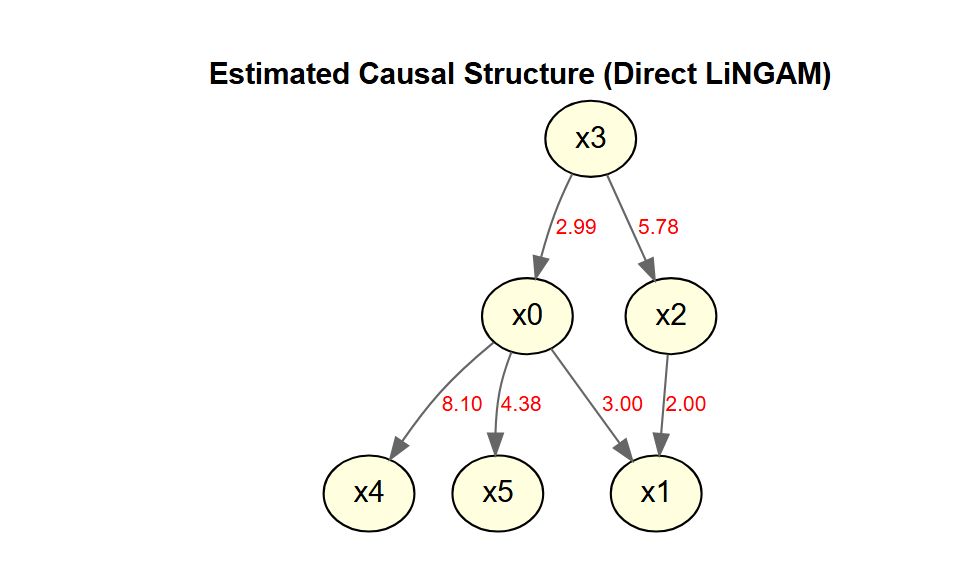
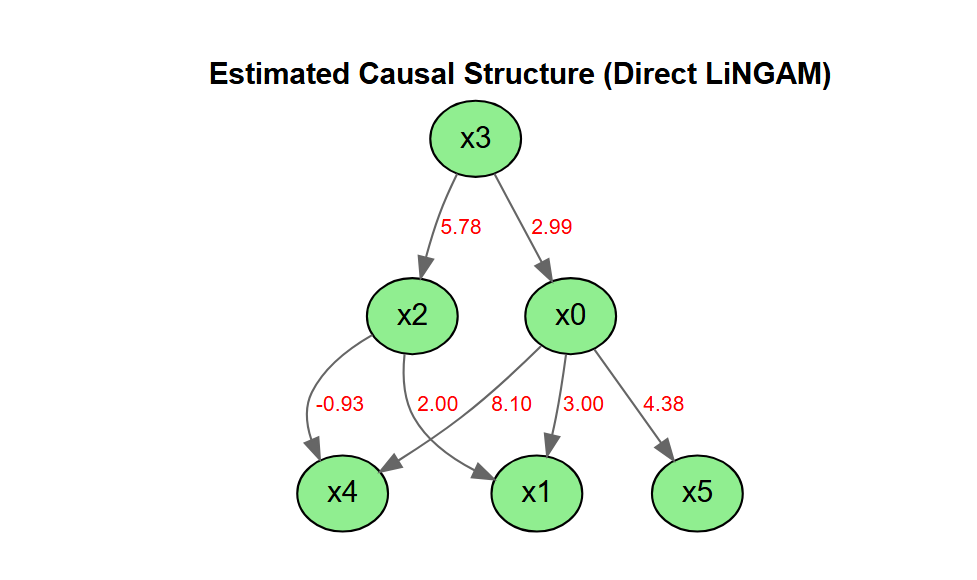
説明を英語に

diff --git a/README.md b/README.md
@@ -51,38 +51,64 @@ pak::pak("morimotoosamu/DirectLiNGAM")
 
 - DiagrammeR
 
-## Example
+## Usage
 
 <https://lingam.readthedocs.io/en/latest/tutorial/lingam.html>
 を再現する
 
-サンプルデータの呼び出しとDirect LiNGAMの実行。
+### Sample Data
 
 ``` r
 library(DirectLiNGAM)
 data(LiNGAM_sample_1000)
 
+m <- matrix(
+  c(0.0, 0.0, 0.0, 3.0, 0.0, 0.0,
+    3.0, 0.0, 2.0, 0.0, 0.0, 0.0,
+    0.0, 0.0, 0.0, 6.0, 0.0, 0.0,
+    0.0, 0.0, 0.0, 0.0, 0.0, 0.0,
+    8.0, 0.0,-1.0, 0.0, 0.0, 0.0,
+    4.0, 0.0, 0.0, 0.0, 0.0, 0.0),
+  nrow = 6, byrow = TRUE
+  )
+
+colnames(m) <- rownames(m) <- colnames(LiNGAM_sample_1000)
+
+m |>
+  plot_adjacency_diagrammer(
+  labels      = colnames(LiNGAM_sample_1000),
+  graph_label = "True causal structure",
+  rankdir     = "TB",
+  shape       = "circle"
+)
+```
+
+<img src="man/figures/README-example-1.png" alt="" width="100%" />
+
+### Causal Discovery
+
+``` r
 model <- direct_lingam(LiNGAM_sample_1000)
 ```
 
-推定された因果順序。
+### Causal Order
 
 ``` r
-cat("Index: ", model$causal_order, "\n")
-#> Index:  4 1 3 2 5 6
-cat("Names: ", colnames(LiNGAM_sample_1000)[model$causal_order], "\n")
-#> Names:  x3 x0 x2 x1 x4 x5
+# index number
+model$causal_order
+#> [1] 4 1 3 2 5 6
+
+# variable name
+colnames(LiNGAM_sample_1000)[model$causal_order]
+#> [1] "x3" "x0" "x2" "x1" "x4" "x5"
 ```
 
-推定された隣接行列
+### Estimated Adjacency Matrix
 
 ``` r
 B_hat <- model$adjacency_matrix
 colnames(B_hat) <- rownames(B_hat) <- colnames(LiNGAM_sample_1000)
-cat("\n--- Estimated Adjacency Matrix ---\n")
-#> 
-#> --- Estimated Adjacency Matrix ---
-print(round(B_hat, 3))
+round(B_hat, 3)
 #>       x0     x1     x2     x3     x4 x5
 #> x0 0.000  0.000  0.000  2.994  0.000  0
 #> x1 2.996  0.000  1.996 -0.022  0.000  0
@@ -92,23 +118,25 @@ print(round(B_hat, 3))
 #> x5 4.377 -0.057  0.084 -0.120 -0.022  0
 ```
 
-推定された因果グラフの描画
+### Plot The Estimated Causal Graph
+
+Only paths with a coefficient of 0.5 or greater are being drawn.
 
 ``` r
-plot_adjacency_diagrammer(
-  B_hat,
-  threshold = 1,
-  labels = colnames(LiNGAM_sample_1000),
-  graph_label = "Estimated Causal Structure (Direct LiNGAM)",
-  rankdir = "TB",
-  shape = "ellipse",
-  fillcolor = "lightyellow"
-)
+B_hat |>
+  plot_adjacency_diagrammer(
+      threshold = 0.5,
+      labels = colnames(LiNGAM_sample_1000),
+      graph_label = "Estimated Causal Structure (Direct LiNGAM)",
+      rankdir = "TB",
+      shape = "ellipse",
+      fillcolor = "lightgreen"
+      )
 ```
 
 <img src="man/figures/README-plot_adjacency-1.png" alt="" width="100%" />
 
-総合因果効果の推定
+### Calculating The Total Causal Effect
 
 ``` r
 LiNGAM_sample_1000 |>
@@ -123,20 +151,18 @@ LiNGAM_sample_1000 |>
 #> x5 4.028 -0.056 -0.007 11.898 -0.022  0
 ```
 
-事前知識を用いた推定
+### Inference Based On Prior Knowledge
 
-x0からx5の6変数のデータセット、x3が外生変数、x1、x4、x5がシンク変数であることが事前知識。
+#### Specify In The Index
+
+- x3 is an exogenous variable.
+- x1, x4, and x5 are sink_variables.
 
 ``` r
-data("LiNGAM_sample_1000")
-
-X <- LiNGAM_sample_1000
-
-# インデックスで指定
 pk1 <- make_prior_knowledge(
   n_variables         = 6,
-  exogenous_variables = 4,  #外生変数x3は4個目の変数
-  sink_variables = c(2, 5, 6) #シンク変数x1, x4, x5は2,5,6個目の変数
+  exogenous_variables = 4,
+  sink_variables = c(2, 5, 6)
 )
 
 pk1
@@ -147,16 +173,19 @@ pk1
 #> [4,]    0    0    0   -1    0    0
 #> [5,]   -1    0   -1   -1   -1    0
 #> [6,]   -1    0   -1   -1    0   -1
+```
 
-model_pk1 <- direct_lingam(X, prior_knowledge = pk1)
+``` r
+model_pk1 <- LiNGAM_sample_1000 |>
+  direct_lingam(prior_knowledge = pk1)
 
-# 因果順
-colnames(X)[model_pk1$causal_order]
-#> [1] "x3" "x0" "x2" "x1" "x4" "x5"
+cat("Causal Order: ", colnames(LiNGAM_sample_1000)[model_pk1$causal_order], "\n")
+#> Causal Order:  x3 x0 x2 x1 x4 x5
+```
 
-# 影響力マトリクス
+``` r
 B_pk <- model_pk1$adjacency_matrix
-colnames(B_pk) <- rownames(B_pk) <- colnames(X)
+colnames(B_pk) <- rownames(B_pk) <- colnames(LiNGAM_sample_1000)
 round(B_pk, 3)
 #>       x0 x1     x2     x3 x4 x5
 #> x0 0.000  0  0.000  2.994  0  0
@@ -168,24 +197,25 @@ round(B_pk, 3)
 
 plot_adjacency_diagrammer(
   B_pk,
-    threshold = 1,
-  labels      = colnames(X),
+  threshold = 0.5,
+  labels      = colnames(LiNGAM_sample_1000),
   graph_label = "Estimated (with Prior Knowledge)",
-  rankdir     = "LR",
+  rankdir     = "TB",
   shape       = "circle",
   fillcolor   = "lightgreen"
 )
 ```
 
-<img src="man/figures/README-make_prior_knowledge1-1.png" alt="" width="100%" />
+<img src="man/figures/README-LiNGAM_with_pk_2-1.png" alt="" width="100%" />
 
-変数名で指定
+#### Specify By Variable Name
+
+- x3 is an exogenous variable.
+- x1, x4, and x5 are sink_variables.
+- There is a path from x3 to x0 and from x3 to x2.
+- There is no path from x3 to x5.
 
 ``` r
-data("LiNGAM_sample_1000")
-
-X <- LiNGAM_sample_1000
-
 pk2 <- make_prior_knowledge(
   n_variables         = 6,
   exogenous_variables = "x3",
@@ -203,16 +233,19 @@ pk2
 #> x3  0  0  0 -1  0  0
 #> x4 -1  0 -1 -1 -1  0
 #> x5 -1  0 -1  0  0 -1
+```
 
-model_pk2 <- direct_lingam(X, prior_knowledge = pk2)
+``` r
+model_pk2 <- LiNGAM_sample_1000 |>
+  direct_lingam(prior_knowledge = pk2)
 
-# 因果順
-colnames(X)[model_pk2$causal_order]
-#> [1] "x3" "x0" "x2" "x1" "x4" "x5"
+cat("Causal Order: ", colnames(LiNGAM_sample_1000)[model_pk2$causal_order], "\n")
+#> Causal Order:  x3 x0 x2 x1 x4 x5
+```
 
-# 影響力マトリクス
+``` r
 B_pk <- model_pk2$adjacency_matrix
-colnames(B_pk) <- rownames(B_pk) <- colnames(X)
+colnames(B_pk) <- rownames(B_pk) <- colnames(LiNGAM_sample_1000)
 round(B_pk, 3)
 #>       x0 x1     x2     x3 x4 x5
 #> x0 0.000  0  0.000  2.994  0  0
@@ -222,31 +255,29 @@ round(B_pk, 3)
 #> x4 8.002  0 -0.997 -0.056  0  0
 #> x5 4.021  0 -0.023  0.000  0  0
 
-plot_adjacency_diagrammer(
-  B_pk,
-  threshold = 0.1,
-  labels      = colnames(X),
-  graph_label = "Estimated (with Prior Knowledge)",
-  rankdir     = "LR",
-  shape       = "circle",
-  fillcolor   = "lightgreen"
+B_pk |>
+  plot_adjacency_diagrammer(
+    threshold = 0.5,
+    labels      = colnames(LiNGAM_sample_1000),
+    graph_label = "Estimated (with Prior Knowledge)",
+    rankdir     = "TB",
+    shape       = "circle",
+    fillcolor   = "lightgreen"
 )
 ```
 
-<img src="man/figures/README-make_prior_knowledge2-1.png" alt="" width="100%" />
+<img src="man/figures/README-LiNGAM_with_pk_4-1.png" alt="" width="100%" />
 
-誤差変数間の独立性検定
-LiNGAMの仮定が破れているかどうかを確認するために、誤差変数間の独立性のp値を算出することができる。得られた行列のi行j列にある値は、誤差変数𝑒𝑖と𝑒𝑗の独立性のp値を示す。
+### Independence between error variables
+
+Calculation of the p-value (default: Spearman)
 
 ``` r
-# サンプルデータの呼び出し
-data(LiNGAM_sample_1000)
+result <- LiNGAM_sample_1000 |>
+  direct_lingam()
 
-# Direct LiNGAM の実行
-result <- direct_lingam(LiNGAM_sample_1000)
-
-# p 値の計算（デフォルト: Spearman）
-p_vals <- get_error_independence_p_values(LiNGAM_sample_1000, result)
+p_vals <- LiNGAM_sample_1000 |>
+  get_error_independence_p_values(result)
 round(p_vals, 3)
 #>       x0    x1    x2    x3    x4    x5
 #> x0    NA 0.962 0.984 0.976 0.977 0.952
@@ -255,9 +286,13 @@ round(p_vals, 3)
 #> x3 0.976 0.988 0.958    NA 0.970 0.902
 #> x4 0.977 0.997 0.966 0.970    NA 0.995
 #> x5 0.952 0.966 0.998 0.902 0.995    NA
+```
 
-# Kendall で計算
-p_vals_k <- get_error_independence_p_values(LiNGAM_sample_1000, result, method = "kendall")
+Calculate using Kendall
+
+``` r
+p_vals_k <- LiNGAM_sample_1000 |>
+  get_error_independence_p_values(result, method = "kendall")
 round(p_vals_k, 3)
 #>       x0    x1    x2    x3    x4    x5
 #> x0    NA 0.969 0.982 0.963 0.971 0.964
